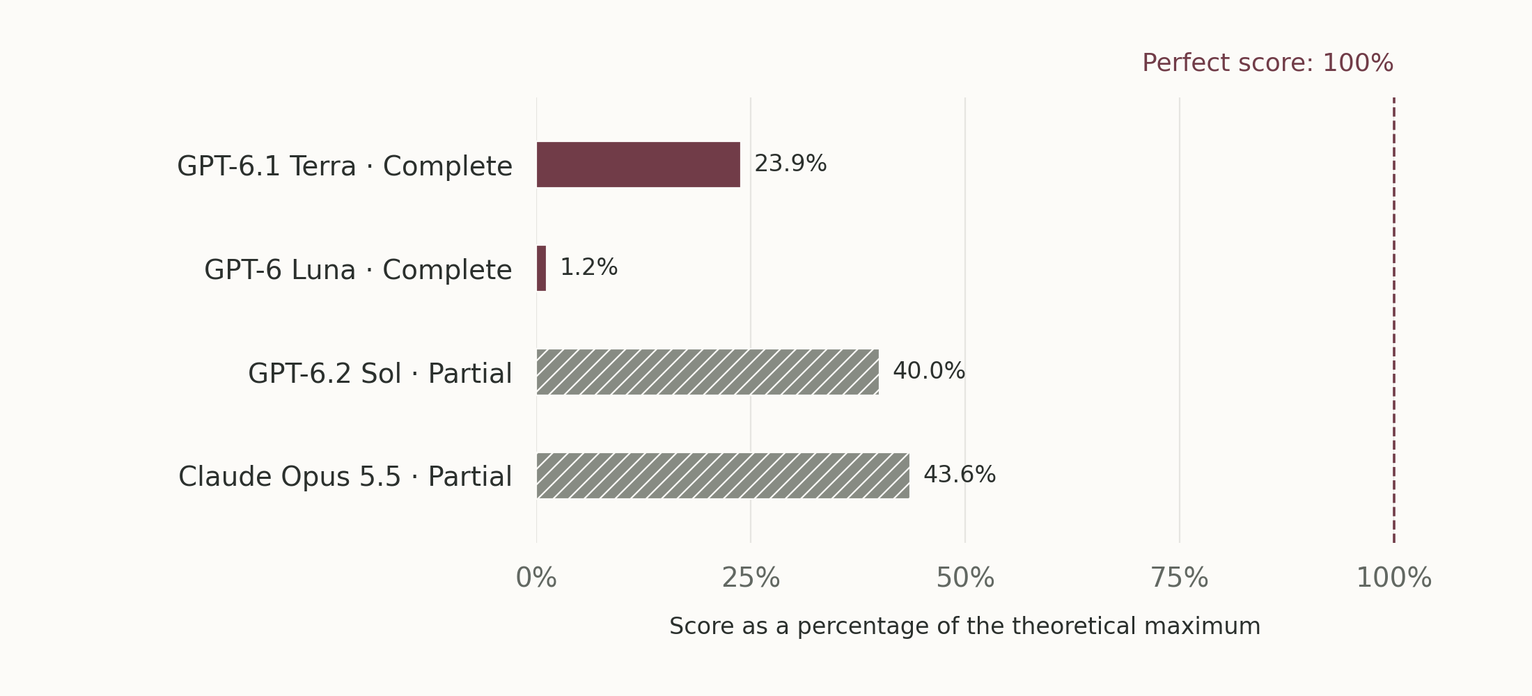
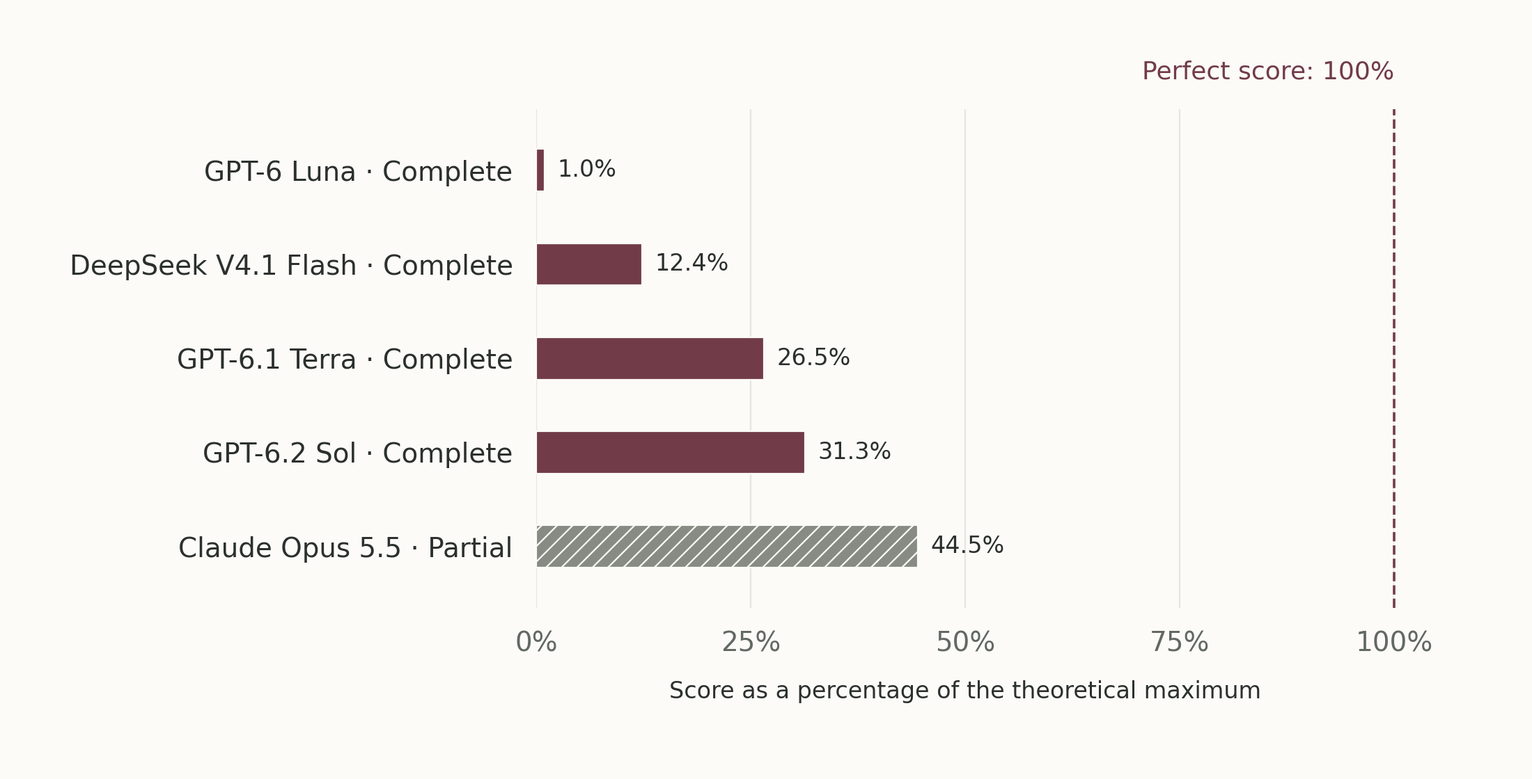
Update OpenQFT note with five models and how each one investigates
Results snapshot now covers five models on a shared evaluation set, with
DeepSeek V4.1 Flash added and the GPT-6.2 Sol experience study complete.
The diagnostic comparison shows every model, and a new section describes
when each model does its analysis relative to its experiments.

diff --git a/project-data.js b/project-data.js
@@ -333,15 +333,19 @@ window.PROJECT_DATA = {
         ],
         [
           "A snapshot across models",
-          "The initial-evaluation snapshot now includes GPT-6.1 Terra (gpt-6.1-terra), GPT-6 Luna (gpt-6-luna), GPT-6.2 Sol (gpt-6.2-sol), and Claude Opus 5.5 (claude-opus-5-5). All scores below are expressed as a percentage of the theoretical maximum: a perfect score is 100%.\n\nComplete and Partial describe study coverage, not task success. The GPT-6.1 Terra and GPT-6 Luna main studies are complete. The GPT-6.2 Sol study is partial, and Claude Opus 5.5 currently has initial-evaluation results only. The initial batch is complete for all four models; the Partial label refers to the broader study.\n\nThe table separates initial evaluation from the experience comparison. They use different evaluation subsets, so a change between these columns should not be read as an improvement over time. Partial experience results include only completed matched comparisons; unfinished evaluations are omitted, not scored as zero. These are descriptive snapshots, rather than a definitive ranking."
+          "The snapshot now covers five models: GPT-6 Luna (gpt-6-luna), DeepSeek V4.1 Flash (deepseek-flash), GPT-6.1 Terra (gpt-6.1-terra), GPT-6.2 Sol (gpt-6.2-sol) and Claude Opus 5.5 (claude-opus-5-5). All scores are expressed as a percentage of the theoretical maximum: a perfect score is 100%.\n\nThe initial evaluation is twice as large as in the earlier version of this note, and every model was evaluated on the same set, so these numbers replace the earlier ones. Complete and Partial describe study coverage, not task success. The experience study is complete for the first four models. Claude Opus 5.5 has initial-evaluation results only.\n\nThe table separates initial evaluation from the experience comparison. They use different evaluation subsets, so a change between these columns should not be read as an improvement over time. The averages also hide how much single investigations by one model differ. Claude Opus 5.5 has the highest average here, yet its lead over GPT-6.2 Sol is within that spread, and its own investigations fall into two groups: some reach much of the explanation and some reach little. These are descriptive snapshots, rather than a definitive ranking."
         ],
         [
           "Collecting evidence is only part of the work",
-          "Choosing an experiment and making sense of its outcome are different abilities. An agent can collect observations while still missing a useful explanation. It can also settle on a plausible story too early and keep gathering evidence that fits it.\n\nThe GPT-6.1 Terra study motivates a closer look at this distinction. The comparison below places GPT-6.1 Terra alongside a diagnostic reference analysis. That reference also receives additional information, so the gap does not isolate a reasoning deficit. It is a prompt to ask which parts of an investigation need help, rather than a claim that every answer was already available to the agent."
+          "Choosing an experiment and making sense of its outcome are different abilities. An agent can collect observations while still missing a useful explanation. It can also settle on a plausible story too early and keep gathering evidence that fits it.\n\nThe comparison below places each model alongside a diagnostic reference analysis that works from that model's own observations. The reference also receives additional information, so the gap does not isolate a reasoning deficit. Still, the pattern is the same for all five models: the observations a model collected would have supported much more than the model concluded from them. It is a prompt to ask which parts of an investigation need help, rather than a claim that every answer was already available to the agent."
+        ],
+        [
+          "Models investigate in different ways",
+          "The models also differ in how they work, apart from how well they score. One difference is when the thinking happens. GPT-6.2 Sol and GPT-6.1 Terra tend to run their experiments in a few large batches and do nearly all of their analysis after the last one, when nothing they work out can change what they try. Claude Opus 5.5 alternates: more than half of its analysis happens while it can still choose another experiment, and it varies the conditions of its experiments more widely.\n\nThe figure shows this as the share of analysis steps taken before the last experiment. A higher share is not a score: GPT-6 Luna and DeepSeek V4.1 Flash also analyse between experiments and score lowest, so alternating does not make an investigation succeed by itself. What I take from it is that the way an agent investigates can be measured alongside its result, and that an explanation worked out after the last experiment can no longer be tested by one."
         ],
         [
           "When experience helps—and when it gets in the way",
-          "A later investigation need not begin from an empty page. In the selected GPT-6.1 Terra comparison below, accumulated experience is associated with better performance. That is encouraging: something from an earlier investigation can be useful again.\n\nBut useful memory needs judgement. A good explanation can guide a new experiment; an untested assumption can guide it in the wrong direction. I want to understand how an agent can carry forward what it has learnt while staying willing to revise it. The figure also includes the complete GPT-6 Luna study and available partial GPT-6.2 Sol results. Claude Opus 5.5 has no completed experience comparison to show yet. These descriptive means do not imply that memory helps every investigation."
+          "A later investigation need not begin from an empty page. In the comparison below, each model meets the same problems without and with notes from its own earlier investigations. The benefit grows with what a model can discover in the first place: GPT-6 Luna, which discovers little, gains little, and GPT-6.2 Sol gains the most.\n\nWhat experience changes differs from model to model. With its notes, GPT-6.2 Sol runs different experiments: fewer of them, with the conditions varied more widely. GPT-6.1 Terra runs much the same experiments as before and changes what it concludes from them. In the cases I have so far, the notes also help with kinds of rule that the earlier investigations had not contained, which suggests that what carries over is mostly a way of working, more than a list of facts.\n\nBut useful memory needs judgement. A good explanation can guide a new experiment; an untested assumption can guide it in the wrong direction, and I see both. I want to understand how an agent can carry forward what it has learnt while staying willing to revise it. Claude Opus 5.5 has no experience comparison to show yet. These descriptive means do not imply that memory helps every investigation."
         ],
         [
           "The question I want to keep asking",
@@ -349,7 +353,7 @@ window.PROJECT_DATA = {
         ],
         [
           "A research note, while the work develops",
-          "This is an intuition-led preview of independent, unpublished research. Figures show selected descriptive means, with 100% marking the theoretical maximum for the measure in each figure. The diagnostic measure and the overall evaluation score are different measures. Study coverage is marked explicitly. Experimental mechanisms and the full paper remain private while the work develops."
+          "This is an intuition-led preview of independent, unpublished research. Figures show selected descriptive means, with 100% marking the theoretical maximum for the measure in each figure. The diagnostic measure, the process measure and the overall evaluation score are different measures, and the process measure is not a score. Study coverage is marked explicitly. Experimental mechanisms and the full paper remain private while the work develops."
         ]
       ]
     },
@@ -368,15 +372,19 @@ window.PROJECT_DATA = {
         ],
         [
           "几种模型的结果快照",
-          "初始评测快照现在包括 GPT-6.1 Terra（gpt-6.1-terra）、GPT-6 Luna（gpt-6-luna）、GPT-6.2 Sol（gpt-6.2-sol）和 Claude Opus 5.5（claude-opus-5-5）。下方分数均按理论满分换算为百分比：满分为 100%。\n\nComplete 和 Partial 表示研究的完成状态，不表示任务成功率。GPT-6.1 Terra 和 GPT-6 Luna 的主线研究已完整；GPT-6.2 Sol 的研究仍是 partial，Claude Opus 5.5 目前只有初始评测结果。四个模型的初始批次均已完成；Partial 指的是更完整的研究尚未完成。\n\n表格将初始评测与经验对比分开。两者使用不同的评测子集，因此不能将跨列差值理解为随时间提升。Partial 的经验结果仅包含已完成的匹配比较；未完成评测暂不纳入，也不记为零分。这些是描述性的结果快照，不作为最终排名。"
+          "结果快照现在包括五个模型：GPT-6 Luna（gpt-6-luna）、DeepSeek V4.1 Flash（deepseek-flash）、GPT-6.1 Terra（gpt-6.1-terra）、GPT-6.2 Sol（gpt-6.2-sol）和 Claude Opus 5.5（claude-opus-5-5）。分数均按理论满分换算为百分比：满分为 100%。\n\n初始评测的规模是这篇笔记上一版的两倍，而且所有模型都在同一组评测上完成，因此这里的数字取代之前的数字。Complete 和 Partial 表示研究的完成状态，不表示任务成功率。前四个模型的经验研究已经完整；Claude Opus 5.5 目前只有初始评测结果。\n\n表格将初始评测与经验对比分开。两者使用不同的评测子集，因此不能将跨列差值理解为随时间提升。均值还掩盖了一点：同一个模型的各次探索之间差别很大。Claude Opus 5.5 在这里的均值最高，但它对 GPT-6.2 Sol 的领先幅度并未超出这种波动；它自己的探索也分成两类，有些得到了解释的大部分，有些所得甚少。这些是描述性的结果快照，不作为最终排名。"
         ],
         [
           "收集证据，只是工作的一部分",
-          "选择实验和理解结果，是两种不同的能力。智能体可能积累了许多观测，却仍然错过一个有用的解释；也可能过早相信一个看似合理的故事，此后只收集符合它的证据。\n\nGPT-6.1 Terra 的研究让我想进一步区分这些环节。下图将 GPT-6.1 Terra 与一个诊断性的参考分析进行对照。参考分析还获得了额外信息，因此差距不能单独归因于推理能力。它促使我追问探索中的哪些环节需要帮助，而不是断言答案早已完整地呈现在智能体面前。"
+          "选择实验和理解结果，是两种不同的能力。智能体可能积累了许多观测，却仍然错过一个有用的解释；也可能过早相信一个看似合理的故事，此后只收集符合它的证据。\n\n下图把每个模型与一个诊断性的参考分析放在一起，参考分析使用的正是该模型自己收集到的观测。参考分析还获得了额外信息，因此差距不能单独归因于推理能力。不过五个模型呈现出同样的情况：模型收集到的观测，本可以支持比它实际得出的多得多的结论。它促使我追问探索中的哪些环节需要帮助，而不是断言答案早已完整地呈现在智能体面前。"
+        ],
+        [
+          "模型的探索方式各不相同",
+          "除了分数高低，模型的工作方式也不一样。一个差别在于思考发生在什么时候。GPT-6.2 Sol 和 GPT-6.1 Terra 倾向于把实验分成几大批做完，几乎所有分析都放在最后一次实验之后，这时无论想明白什么，都已经无法改变要做的实验。Claude Opus 5.5 则是交替进行：它一半以上的分析发生在还能再选一个实验的时候，实验条件也变化得更多。\n\n下图用“最后一次实验之前完成的分析步骤占比”来表示这一点。占比高并不等于分数高：GPT-6 Luna 和 DeepSeek V4.1 Flash 同样会在实验之间做分析，分数却最低，可见光靠交替并不能让探索成功。我从中看到的是：智能体的探索方式可以和结果一起被测量；而在最后一次实验之后才想出的解释，已经没有实验可以检验它了。"
         ],
         [
           "经验何时有用，又何时会妨碍探索？",
-          "后一次探索不必从空白开始。在下方选取的 GPT-6.1 Terra 对比中，积累经验时的表现更好。这是一个令人感兴趣的信号：之前的探索确实可能留下一些再次派得上用场的东西。\n\n但如何使用记忆，同样需要判断。好的解释可以指引下一次实验，未经检验的假设也可能把探索带偏。我想理解的是：智能体如何带着已有知识继续前进，同时保留修订它的意愿。图中也加入了完整的 GPT-6 Luna 研究，以及 GPT-6.2 Sol 已完成的部分结果。Claude Opus 5.5 暂无已完成的经验对比。这些描述性均值并不意味着记忆会帮助每一次探索。"
+          "后一次探索不必从空白开始。在下方的对比中，每个模型分别在没有和带有自己先前探索笔记的情况下，面对同样的问题。模型本身能发现的越多，经验带来的收益越大：GPT-6 Luna 发现得很少，收益也很小；GPT-6.2 Sol 的收益最大。\n\n经验改变了什么，也因模型而异。带着笔记的 GPT-6.2 Sol 会做不一样的实验：次数更少，条件变化更多。GPT-6.1 Terra 做的实验和之前差不多，改变的是它从实验中得出的结论。在目前已有的例子里，笔记对先前探索中没有出现过的规律类型同样有帮助，这说明延续下来的主要是一种工作方法，而不只是一份事实清单。\n\n但如何使用记忆，同样需要判断。好的解释可以指引下一次实验，未经检验的假设也可能把探索带偏，这两种情况我都看到了。我想理解的是：智能体如何带着已有知识继续前进，同时保留修订它的意愿。Claude Opus 5.5 暂无经验对比。这些描述性均值并不意味着记忆会帮助每一次探索。"
         ],
         [
           "我想继续追问的问题",
@@ -384,7 +392,7 @@ window.PROJECT_DATA = {
         ],
         [
           "写在研究进行中",
-          "这是尚未发表的独立研究的一篇直觉笔记。图中展示选取结果的描述性均值，100% 表示每张图中相应指标的理论满分。诊断指标与整体评测分数是不同指标。研究完成状态已分别标注。研究进行期间，具体实验机制与论文全文仍暂不公开。"
+          "这是尚未发表的独立研究的一篇直觉笔记。图中展示选取结果的描述性均值，100% 表示每张图中相应指标的理论满分。诊断指标、过程指标与整体评测分数是不同的指标，其中过程指标不是分数。研究完成状态已分别标注。研究进行期间，具体实验机制与论文全文仍暂不公开。"
         ]
       ]
     },
@@ -413,7 +421,7 @@ window.PROJECT_DATA = {
         ],
         [
           "Research note",
-          "The full page shares the intuition behind OpenQFT and simplified views of selected model results, including GPT-6.1 Terra."
+          "The full page shares the intuition behind OpenQFT and simplified views of selected results from five models."
         ],
         [
           "Status",
@@ -427,7 +435,7 @@ window.PROJECT_DATA = {
         ],
         [
           "研究笔记",
-          "完整页面分享 OpenQFT 背后的直觉，以及选取模型结果（含 GPT-6.1 Terra）制作的简化公开图。"
+          "完整页面分享 OpenQFT 背后的直觉，以及选取五个模型的结果制作的简化公开图。"
         ],
         [
           "状态",
@@ -440,42 +448,56 @@ window.PROJECT_DATA = {
         "after": 2,
         "src": "assets/openqft/model-discovery.png",
         "width": 2200,
-        "height": 1000,
+        "height": 1120,
         "en": {
-          "alt": "Initial evaluation: GPT-6.1 Terra 23.9%, GPT-6 Luna 1.2%, GPT-6.2 Sol 40.0%, Claude Opus 5.5 43.6%. The theoretical maximum is 100%. Sol and Opus are marked Partial for overall study coverage.",
-          "caption": "Initial-evaluation means, as a percentage of the theoretical maximum (100%). All four initial batches are complete. Complete/Partial denotes coverage of the broader study; partial studies use hatched bars. This snapshot does not establish a definitive model ranking."
+          "alt": "Initial evaluation: GPT-6 Luna 1.0%, DeepSeek V4.1 Flash 12.4%, GPT-6.1 Terra 26.5%, GPT-6.2 Sol 31.3%, Claude Opus 5.5 44.5%. The theoretical maximum is 100%. Claude Opus 5.5 is marked Partial for overall study coverage.",
+          "caption": "Initial-evaluation means, as a percentage of the theoretical maximum (100%). All five models were evaluated on the same set. Complete/Partial denotes coverage of the broader study; the partial study uses a hatched bar. This snapshot does not establish a definitive model ranking."
         },
         "zh": {
-          "alt": "初始评测：GPT-6.1 Terra 23.9%、GPT-6 Luna 1.2%、GPT-6.2 Sol 40.0%、Claude Opus 5.5 43.6%，理论满分为 100%。Sol 和 Opus 的整体研究标注为 Partial。",
-          "caption": "初始评测均值，按理论满分（100%）换算。四个初始批次均已完成。Complete/Partial 表示整体研究覆盖情况，部分研究采用斜线柱形。此快照不构成最终模型排名。"
+          "alt": "初始评测：GPT-6 Luna 1.0%、DeepSeek V4.1 Flash 12.4%、GPT-6.1 Terra 26.5%、GPT-6.2 Sol 31.3%、Claude Opus 5.5 44.5%，理论满分为 100%。Claude Opus 5.5 的整体研究标注为 Partial。",
+          "caption": "初始评测均值，按理论满分（100%）换算。五个模型在同一组评测上完成。Complete/Partial 表示整体研究覆盖情况，部分完成的研究采用斜线柱形。此快照不构成最终模型排名。"
         }
       },
       {
         "after": 3,
-        "src": "assets/openqft/terra-evidence.png",
+        "src": "assets/openqft/model-evidence.png",
         "width": 2200,
-        "height": 720,
+        "height": 1480,
         "en": {
-          "alt": "GPT-6.1 Terra: 9.2%; diagnostic reference with extra information: 54.6%. The theoretical maximum for this diagnostic measure is 100%.",
-          "caption": "GPT-6.1 Terra: selected diagnostic measure, with its theoretical maximum marked at 100%. The reference has additional information; this is not an equal-information baseline. This measure differs from the overall score in the other figures. Mechanism details remain private."
+          "alt": "Selected diagnostic measure, model against a reference analysis of the same observations with extra information: GPT-6 Luna 0.1% against 50.2%; DeepSeek V4.1 Flash 2.6% against 53.6%; GPT-6.1 Terra 8.9% against 63.2%; GPT-6.2 Sol 16.5% against 66.1%; Claude Opus 5.5 31.1% against 67.7%. The maximum is 100%.",
+          "caption": "Selected diagnostic measure for each model, with its maximum marked at 100%. The reference analyses the same observations the model collected and has additional information; this is not an equal-information baseline. This measure differs from the overall score in the other figures. Mechanism details remain private."
         },
         "zh": {
-          "alt": "GPT-6.1 Terra：9.2%；具有额外信息的诊断参照：54.6%。此诊断指标的理论满分为 100%。",
-          "caption": "GPT-6.1 Terra 的选取诊断指标，理论满分标为 100%。参照具有额外信息，并非信息条件相同的基线。此指标与其他图中的整体分数不同；具体机制暂不公开。"
+          "alt": "选取的诊断指标，模型与使用相同观测并具有额外信息的参考分析：GPT-6 Luna 0.1% 对 50.2%；DeepSeek V4.1 Flash 2.6% 对 53.6%；GPT-6.1 Terra 8.9% 对 63.2%；GPT-6.2 Sol 16.5% 对 66.1%；Claude Opus 5.5 31.1% 对 67.7%。满分为 100%。",
+          "caption": "各模型的选取诊断指标，满分标为 100%。参考分析使用模型自己收集的同一批观测，并具有额外信息，并非信息条件相同的基线。此指标与其他图中的整体分数不同；具体机制暂不公开。"
         }
       },
       {
         "after": 4,
-        "src": "assets/openqft/model-experience.png",
+        "src": "assets/openqft/model-process.png",
         "width": 2200,
-        "height": 1100,
+        "height": 1120,
         "en": {
-          "alt": "Without/with accumulated experience: GPT-6.1 Terra 30.4%/37.9%, GPT-6 Luna 0.5%/1.4%, GPT-6.2 Sol 39.5%/46.2%. Perfect score is 100%. Sol is Partial. Opus has no available experience comparison.",
-          "caption": "Experience comparison: descriptive means from completed matched comparisons, with 100% marking the theoretical maximum. GPT-6.1 Terra and GPT-6 Luna are complete; GPT-6.2 Sol is partial and covers a different subset. No Claude Opus 5.5 experience result is available. Missing evaluations are not zeros. These means do not establish a universal memory benefit."
+          "alt": "Share of analysis steps taken before the last experiment: GPT-6 Luna 38.3%, DeepSeek V4.1 Flash 51.8%, GPT-6.1 Terra 16.8%, GPT-6.2 Sol 9.4%, Claude Opus 5.5 59.0%.",
+          "caption": "When the thinking happens: of the steps a model spends on analysis, the share taken before its last experiment, averaged over investigations that start with no earlier experience. This describes how a model works; it is not a score."
         },
         "zh": {
-          "alt": "未积累/积累经验：GPT-6.1 Terra 30.4%/37.9%、GPT-6 Luna 0.5%/1.4%、GPT-6.2 Sol 39.5%/46.2%。满分为 100%；Sol 为 Partial，Opus 暂无经验对比。",
-          "caption": "经验对比：已完成匹配比较的描述性均值，100% 为理论满分。GPT-6.1 Terra 与 GPT-6 Luna 已完整；GPT-6.2 Sol 为部分结果，覆盖不同子集。Claude Opus 5.5 暂无经验对比结果。缺失评测不记为零；这些均值不代表记忆具有普遍收益。"
+          "alt": "最后一次实验之前完成的分析步骤占比：GPT-6 Luna 38.3%、DeepSeek V4.1 Flash 51.8%、GPT-6.1 Terra 16.8%、GPT-6.2 Sol 9.4%、Claude Opus 5.5 59.0%。",
+          "caption": "思考发生在什么时候：在模型用于分析的步骤中，发生在最后一次实验之前的占比，对没有先前经验的探索取平均。它描述的是模型的工作方式，不是分数。"
+        }
+      },
+      {
+        "after": 5,
+        "src": "assets/openqft/model-experience.png",
+        "width": 2200,
+        "height": 1280,
+        "en": {
+          "alt": "Without/with accumulated experience: GPT-6 Luna 0.5%/1.4%, DeepSeek V4.1 Flash 6.5%/10.0%, GPT-6.1 Terra 30.4%/37.9%, GPT-6.2 Sol 35.5%/51.6%. Perfect score is 100%. Claude Opus 5.5 has no experience comparison.",
+          "caption": "Experience comparison: descriptive means from matched comparisons on the same problems, with 100% marking the theoretical maximum. All four studies shown are complete. No Claude Opus 5.5 experience result is available. These means do not establish a universal memory benefit."
+        },
+        "zh": {
+          "alt": "未积累/积累经验：GPT-6 Luna 0.5%/1.4%、DeepSeek V4.1 Flash 6.5%/10.0%、GPT-6.1 Terra 30.4%/37.9%、GPT-6.2 Sol 35.5%/51.6%。满分为 100%；Claude Opus 5.5 暂无经验对比。",
+          "caption": "经验对比：同一批问题上匹配比较的描述性均值，100% 为理论满分。图中四项研究均已完整。Claude Opus 5.5 暂无经验对比结果。这些均值不代表记忆具有普遍收益。"
         }
       }
     ],
@@ -509,33 +531,43 @@ window.PROJECT_DATA = {
       },
       "rows": [
         {
-          "model": "GPT-6.1 Terra",
-          "identifier": "gpt-6.1-terra",
-          "status": "Complete",
-          "scores": [
-            23.9,
-            30.4,
-            37.9
-          ]
-        },
-        {
           "model": "GPT-6 Luna",
           "identifier": "gpt-6-luna",
           "status": "Complete",
           "scores": [
-            1.2,
+            1.0,
             0.5,
             1.4
           ]
         },
         {
+          "model": "DeepSeek V4.1 Flash",
+          "identifier": "deepseek-flash",
+          "status": "Complete",
+          "scores": [
+            12.4,
+            6.5,
+            10.0
+          ]
+        },
+        {
+          "model": "GPT-6.1 Terra",
+          "identifier": "gpt-6.1-terra",
+          "status": "Complete",
+          "scores": [
+            26.5,
+            30.4,
+            37.9
+          ]
+        },
+        {
           "model": "GPT-6.2 Sol",
           "identifier": "gpt-6.2-sol",
-          "status": "Partial",
+          "status": "Complete",
           "scores": [
-            40.0,
-            39.5,
-            46.2
+            31.3,
+            35.5,
+            51.6
           ]
         },
         {
@@ -543,7 +575,7 @@ window.PROJECT_DATA = {
           "identifier": "claude-opus-5-5",
           "status": "Partial",
           "scores": [
-            43.6,
+            44.5,
             null,
             null
           ]

diff --git a/projects/openqft/index.html b/projects/openqft/index.html
@@ -1,4 +1,4 @@
 <!doctype html>
 <html lang="en"><head><meta charset="utf-8"><meta name="viewport" content="width=device-width,initial-scale=1"><meta name="description" content="Some thoughts on scientific discovery, useful experience, and what it means for an agent to keep learning."><title>OpenQFT — Shuhan Wang</title><link rel="canonical" href="https://shuhan-wang1.github.io/projects/openqft/"><meta property="og:title" content="OpenQFT — Shuhan Wang"><meta property="og:description" content="Some thoughts on scientific discovery, useful experience, and what it means for an agent to keep learning."><link rel="icon" href="../../assets/favicon.svg" type="image/svg+xml"><link rel="stylesheet" href="../../styles.css"><link rel="stylesheet" href="../../project.css"><script src="../../project-data.js" defer></script><script src="../../project.js" defer></script></head>
 <body data-project-id="qft" class="research-blog"><a class="skip-link" href="#project-main" id="skip">Skip to content</a><header class="site-header"><div class="header-inner"><a class="wordmark" href="../../" aria-label="Shuhan Wang, home">sw<span class="wordmark-dot">.</span></a><a class="text-link" id="back-home" href="../../#research">All projects</a><button id="project-language" class="language-button" aria-label="Switch to Chinese">中文</button></div></header>
-<main id="project-main" class="project-document container"><header class="project-hero"><p class="eyebrow" id="page-kicker">OPENQFT / RESEARCH JOURNAL</p><h1 id="page-title">Learning to discover. Learning from discovery.</h1><p id="page-summary">Some thoughts on scientific discovery, useful experience, and what it means for an agent to keep learning.</p><div class="project-resources"></div></header><div class="project-layout"><aside><nav class="project-toc" aria-label="On this page"><span id="toc-label">On this page</span><a href="#section-0">What should an agent learn from discovery?</a><a href="#section-1">An intuition from the history of science</a><a href="#section-2">A snapshot across models</a><a href="#section-3">Collecting evidence is only part of the work</a><a href="#section-4">When experience helps—and when it gets in the way</a><a href="#section-5">The question I want to keep asking</a><a href="#section-6">A research note, while the work develops</a></nav></aside><article class="project-article"><div id="project-sections"><section id="section-0" class="project-section"><h2>What should an agent learn from discovery?</h2><div class="section-prose"><p>I keep coming back to two questions. Can an agent work out something unfamiliar by choosing its own experiments? And when it encounters a new problem, does the earlier investigation make it a better learner?</p><p>OpenQFT grew out of wanting to study these questions together. A successful investigation is interesting in its own right. I am even more interested in what survives it: a useful idea, a better question, or a habit of checking an explanation before trusting it.</p></div></section><section id="section-1" class="project-section"><h2>An intuition from the history of science</h2><div class="section-prose"><p>One inspiration is the history of particle physics. Observations arrived before a complete explanation. Researchers had to look for regularities, ask what those regularities implied, and decide which observation might change the picture. An explanation earned its value by helping them anticipate something they had not yet seen.</p><p>What interests me is this movement between evidence and explanation. Each discovery changes the questions that become worth asking. Experience can do more than supply another answer; it can change how the next investigation begins.</p></div></section><section id="section-2" class="project-section"><h2>A snapshot across models</h2><div class="section-prose"><p>The initial-evaluation snapshot now includes GPT-6.1 Terra (gpt-6.1-terra), GPT-6 Luna (gpt-6-luna), GPT-6.2 Sol (gpt-6.2-sol), and Claude Opus 5.5 (claude-opus-5-5). All scores below are expressed as a percentage of the theoretical maximum: a perfect score is 100%.</p><p>Complete and Partial describe study coverage, not task success. The GPT-6.1 Terra and GPT-6 Luna main studies are complete. The GPT-6.2 Sol study is partial, and Claude Opus 5.5 currently has initial-evaluation results only. The initial batch is complete for all four models; the Partial label refers to the broader study.</p><p>The table separates initial evaluation from the experience comparison. They use different evaluation subsets, so a change between these columns should not be read as an improvement over time. Partial experience results include only completed matched comparisons; unfinished evaluations are omitted, not scored as zero. These are descriptive snapshots, rather than a definitive ranking.</p></div></section><div class="results-table-wrap" tabindex="0" role="region" aria-label="Model results"><table class="model-results"><caption>Results snapshot · theoretical maximum = 100%</caption><thead><tr><th scope="col">Model</th><th scope="col">Study coverage</th><th scope="col">Initial evaluation</th><th scope="col">Without experience</th><th scope="col">With experience</th></tr></thead><tbody><tr><th scope="row">GPT-6.1 Terra<code>gpt-6.1-terra</code></th><td data-study-status="complete">Complete</td><td>23.9%</td><td>30.4%</td><td>37.9%</td></tr><tr><th scope="row">GPT-6 Luna<code>gpt-6-luna</code></th><td data-study-status="complete">Complete</td><td>1.2%</td><td>0.5%</td><td>1.4%</td></tr><tr><th scope="row">GPT-6.2 Sol<code>gpt-6.2-sol</code></th><td data-study-status="partial">Partial</td><td>40.0%</td><td>39.5%</td><td>46.2%</td></tr><tr><th scope="row">Claude Opus 5.5<code>claude-opus-5-5</code></th><td data-study-status="partial">Partial</td><td>43.6%</td><td data-score-missing>Not available</td><td data-score-missing>Not available</td></tr></tbody></table></div><figure class="blog-figure" data-blog-figure="0"><a class="figure-zoom" href="../../assets/openqft/model-discovery.png" target="_blank" rel="noopener noreferrer"><img src="../../assets/openqft/model-discovery.png" alt="Initial evaluation: GPT-6.1 Terra 23.9%, GPT-6 Luna 1.2%, GPT-6.2 Sol 40.0%, Claude Opus 5.5 43.6%. The theoretical maximum is 100%. Sol and Opus are marked Partial for overall study coverage." width="2200" height="1000" loading="lazy"></a><figcaption>Initial-evaluation means, as a percentage of the theoretical maximum (100%). All four initial batches are complete. Complete/Partial denotes coverage of the broader study; partial studies use hatched bars. This snapshot does not establish a definitive model ranking.</figcaption></figure><section id="section-3" class="project-section"><h2>Collecting evidence is only part of the work</h2><div class="section-prose"><p>Choosing an experiment and making sense of its outcome are different abilities. An agent can collect observations while still missing a useful explanation. It can also settle on a plausible story too early and keep gathering evidence that fits it.</p><p>The GPT-6.1 Terra study motivates a closer look at this distinction. The comparison below places GPT-6.1 Terra alongside a diagnostic reference analysis. That reference also receives additional information, so the gap does not isolate a reasoning deficit. It is a prompt to ask which parts of an investigation need help, rather than a claim that every answer was already available to the agent.</p></div></section><figure class="blog-figure" data-blog-figure="1"><a class="figure-zoom" href="../../assets/openqft/terra-evidence.png" target="_blank" rel="noopener noreferrer"><img src="../../assets/openqft/terra-evidence.png" alt="GPT-6.1 Terra: 9.2%; diagnostic reference with extra information: 54.6%. The theoretical maximum for this diagnostic measure is 100%." width="2200" height="720" loading="lazy"></a><figcaption>GPT-6.1 Terra: selected diagnostic measure, with its theoretical maximum marked at 100%. The reference has additional information; this is not an equal-information baseline. This measure differs from the overall score in the other figures. Mechanism details remain private.</figcaption></figure><section id="section-4" class="project-section"><h2>When experience helps—and when it gets in the way</h2><div class="section-prose"><p>A later investigation need not begin from an empty page. In the selected GPT-6.1 Terra comparison below, accumulated experience is associated with better performance. That is encouraging: something from an earlier investigation can be useful again.</p><p>But useful memory needs judgement. A good explanation can guide a new experiment; an untested assumption can guide it in the wrong direction. I want to understand how an agent can carry forward what it has learnt while staying willing to revise it. The figure also includes the complete GPT-6 Luna study and available partial GPT-6.2 Sol results. Claude Opus 5.5 has no completed experience comparison to show yet. These descriptive means do not imply that memory helps every investigation.</p></div></section><figure class="blog-figure" data-blog-figure="2"><a class="figure-zoom" href="../../assets/openqft/model-experience.png" target="_blank" rel="noopener noreferrer"><img src="../../assets/openqft/model-experience.png" alt="Without/with accumulated experience: GPT-6.1 Terra 30.4%/37.9%, GPT-6 Luna 0.5%/1.4%, GPT-6.2 Sol 39.5%/46.2%. Perfect score is 100%. Sol is Partial. Opus has no available experience comparison." width="2200" height="1100" loading="lazy"></a><figcaption>Experience comparison: descriptive means from completed matched comparisons, with 100% marking the theoretical maximum. GPT-6.1 Terra and GPT-6 Luna are complete; GPT-6.2 Sol is partial and covers a different subset. No Claude Opus 5.5 experience result is available. Missing evaluations are not zeros. These means do not establish a universal memory benefit.</figcaption></figure><section id="section-5" class="project-section"><h2>The question I want to keep asking</h2><div class="section-prose"><p>For me, the exciting possibility is an agent whose experience improves the way it investigates. It notices when an explanation stops working, asks a more revealing question, and brings a useful idea to an unfamiliar problem.</p><p>That connects scientific discovery to continual learning: progress in one investigation becomes part of how the next one is approached. OpenQFT is where I am exploring that connection.</p></div></section><section id="section-6" class="project-section"><h2>A research note, while the work develops</h2><div class="section-prose"><p>This is an intuition-led preview of independent, unpublished research. Figures show selected descriptive means, with 100% marking the theoretical maximum for the measure in each figure. The diagnostic measure and the overall evaluation score are different measures. Study coverage is marked explicitly. Experimental mechanisms and the full paper remain private while the work develops.</p></div></section></div><p class="project-updated" id="updated">Updated November 2026</p></article></div><nav class="related-projects" aria-label="Other projects"><h2 id="related-title">Explore other projects</h2><a href="../diagnosing-world-models/" data-related="wm">Diagnosing World Models</a><a href="../climb/" data-related="climb">CLIMB</a><a href="../temporal-routing/" data-related="temporal">Temporal Routing</a><a href="../swe-router/" data-related="swe">SWE-Router</a><a href="../ropeband/" data-related="rope">RopeBand</a><a href="../rentcompass/" data-related="rent">RentCompass</a></nav></main><footer class="site-footer container"><a href="../../">Shuhan Wang / 王书涵</a><a href="mailto:jackwsh@outlook.com">jackwsh@outlook.com</a></footer></body></html>
+<main id="project-main" class="project-document container"><header class="project-hero"><p class="eyebrow" id="page-kicker">OPENQFT / RESEARCH JOURNAL</p><h1 id="page-title">Learning to discover. Learning from discovery.</h1><p id="page-summary">Some thoughts on scientific discovery, useful experience, and what it means for an agent to keep learning.</p><div class="project-resources"></div></header><div class="project-layout"><aside><nav class="project-toc" aria-label="On this page"><span id="toc-label">On this page</span><a href="#section-0">What should an agent learn from discovery?</a><a href="#section-1">An intuition from the history of science</a><a href="#section-2">A snapshot across models</a><a href="#section-3">Collecting evidence is only part of the work</a><a href="#section-4">Models investigate in different ways</a><a href="#section-5">When experience helps—and when it gets in the way</a><a href="#section-6">The question I want to keep asking</a><a href="#section-7">A research note, while the work develops</a></nav></aside><article class="project-article"><div id="project-sections"><section id="section-0" class="project-section"><h2>What should an agent learn from discovery?</h2><div class="section-prose"><p>I keep coming back to two questions. Can an agent work out something unfamiliar by choosing its own experiments? And when it encounters a new problem, does the earlier investigation make it a better learner?</p><p>OpenQFT grew out of wanting to study these questions together. A successful investigation is interesting in its own right. I am even more interested in what survives it: a useful idea, a better question, or a habit of checking an explanation before trusting it.</p></div></section><section id="section-1" class="project-section"><h2>An intuition from the history of science</h2><div class="section-prose"><p>One inspiration is the history of particle physics. Observations arrived before a complete explanation. Researchers had to look for regularities, ask what those regularities implied, and decide which observation might change the picture. An explanation earned its value by helping them anticipate something they had not yet seen.</p><p>What interests me is this movement between evidence and explanation. Each discovery changes the questions that become worth asking. Experience can do more than supply another answer; it can change how the next investigation begins.</p></div></section><section id="section-2" class="project-section"><h2>A snapshot across models</h2><div class="section-prose"><p>The snapshot now covers five models: GPT-6 Luna (gpt-6-luna), DeepSeek V4.1 Flash (deepseek-flash), GPT-6.1 Terra (gpt-6.1-terra), GPT-6.2 Sol (gpt-6.2-sol) and Claude Opus 5.5 (claude-opus-5-5). All scores are expressed as a percentage of the theoretical maximum: a perfect score is 100%.</p><p>The initial evaluation is twice as large as in the earlier version of this note, and every model was evaluated on the same set, so these numbers replace the earlier ones. Complete and Partial describe study coverage, not task success. The experience study is complete for the first four models. Claude Opus 5.5 has initial-evaluation results only.</p><p>The table separates initial evaluation from the experience comparison. They use different evaluation subsets, so a change between these columns should not be read as an improvement over time. The averages also hide how much single investigations by one model differ. Claude Opus 5.5 has the highest average here, yet its lead over GPT-6.2 Sol is within that spread, and its own investigations fall into two groups: some reach much of the explanation and some reach little. These are descriptive snapshots, rather than a definitive ranking.</p></div></section><div class="results-table-wrap" tabindex="0" role="region" aria-label="Model results"><table class="model-results"><caption>Results snapshot · theoretical maximum = 100%</caption><thead><tr><th scope="col">Model</th><th scope="col">Study coverage</th><th scope="col">Initial evaluation</th><th scope="col">Without experience</th><th scope="col">With experience</th></tr></thead><tbody><tr><th scope="row">GPT-6 Luna<code>gpt-6-luna</code></th><td data-study-status="complete">Complete</td><td>1.0%</td><td>0.5%</td><td>1.4%</td></tr><tr><th scope="row">DeepSeek V4.1 Flash<code>deepseek-flash</code></th><td data-study-status="complete">Complete</td><td>12.4%</td><td>6.5%</td><td>10.0%</td></tr><tr><th scope="row">GPT-6.1 Terra<code>gpt-6.1-terra</code></th><td data-study-status="complete">Complete</td><td>26.5%</td><td>30.4%</td><td>37.9%</td></tr><tr><th scope="row">GPT-6.2 Sol<code>gpt-6.2-sol</code></th><td data-study-status="complete">Complete</td><td>31.3%</td><td>35.5%</td><td>51.6%</td></tr><tr><th scope="row">Claude Opus 5.5<code>claude-opus-5-5</code></th><td data-study-status="partial">Partial</td><td>44.5%</td><td data-score-missing>Not available</td><td data-score-missing>Not available</td></tr></tbody></table></div><figure class="blog-figure" data-blog-figure="0"><a class="figure-zoom" href="../../assets/openqft/model-discovery.png" target="_blank" rel="noopener noreferrer"><img src="../../assets/openqft/model-discovery.png" alt="Initial evaluation: GPT-6 Luna 1.0%, DeepSeek V4.1 Flash 12.4%, GPT-6.1 Terra 26.5%, GPT-6.2 Sol 31.3%, Claude Opus 5.5 44.5%. The theoretical maximum is 100%. Claude Opus 5.5 is marked Partial for overall study coverage." width="2200" height="1120" loading="lazy"></a><figcaption>Initial-evaluation means, as a percentage of the theoretical maximum (100%). All five models were evaluated on the same set. Complete/Partial denotes coverage of the broader study; the partial study uses a hatched bar. This snapshot does not establish a definitive model ranking.</figcaption></figure><section id="section-3" class="project-section"><h2>Collecting evidence is only part of the work</h2><div class="section-prose"><p>Choosing an experiment and making sense of its outcome are different abilities. An agent can collect observations while still missing a useful explanation. It can also settle on a plausible story too early and keep gathering evidence that fits it.</p><p>The comparison below places each model alongside a diagnostic reference analysis that works from that model&#x27;s own observations. The reference also receives additional information, so the gap does not isolate a reasoning deficit. Still, the pattern is the same for all five models: the observations a model collected would have supported much more than the model concluded from them. It is a prompt to ask which parts of an investigation need help, rather than a claim that every answer was already available to the agent.</p></div></section><figure class="blog-figure" data-blog-figure="1"><a class="figure-zoom" href="../../assets/openqft/model-evidence.png" target="_blank" rel="noopener noreferrer"><img src="../../assets/openqft/model-evidence.png" alt="Selected diagnostic measure, model against a reference analysis of the same observations with extra information: GPT-6 Luna 0.1% against 50.2%; DeepSeek V4.1 Flash 2.6% against 53.6%; GPT-6.1 Terra 8.9% against 63.2%; GPT-6.2 Sol 16.5% against 66.1%; Claude Opus 5.5 31.1% against 67.7%. The maximum is 100%." width="2200" height="1480" loading="lazy"></a><figcaption>Selected diagnostic measure for each model, with its maximum marked at 100%. The reference analyses the same observations the model collected and has additional information; this is not an equal-information baseline. This measure differs from the overall score in the other figures. Mechanism details remain private.</figcaption></figure><section id="section-4" class="project-section"><h2>Models investigate in different ways</h2><div class="section-prose"><p>The models also differ in how they work, apart from how well they score. One difference is when the thinking happens. GPT-6.2 Sol and GPT-6.1 Terra tend to run their experiments in a few large batches and do nearly all of their analysis after the last one, when nothing they work out can change what they try. Claude Opus 5.5 alternates: more than half of its analysis happens while it can still choose another experiment, and it varies the conditions of its experiments more widely.</p><p>The figure shows this as the share of analysis steps taken before the last experiment. A higher share is not a score: GPT-6 Luna and DeepSeek V4.1 Flash also analyse between experiments and score lowest, so alternating does not make an investigation succeed by itself. What I take from it is that the way an agent investigates can be measured alongside its result, and that an explanation worked out after the last experiment can no longer be tested by one.</p></div></section><figure class="blog-figure" data-blog-figure="2"><a class="figure-zoom" href="../../assets/openqft/model-process.png" target="_blank" rel="noopener noreferrer"><img src="../../assets/openqft/model-process.png" alt="Share of analysis steps taken before the last experiment: GPT-6 Luna 38.3%, DeepSeek V4.1 Flash 51.8%, GPT-6.1 Terra 16.8%, GPT-6.2 Sol 9.4%, Claude Opus 5.5 59.0%." width="2200" height="1120" loading="lazy"></a><figcaption>When the thinking happens: of the steps a model spends on analysis, the share taken before its last experiment, averaged over investigations that start with no earlier experience. This describes how a model works; it is not a score.</figcaption></figure><section id="section-5" class="project-section"><h2>When experience helps—and when it gets in the way</h2><div class="section-prose"><p>A later investigation need not begin from an empty page. In the comparison below, each model meets the same problems without and with notes from its own earlier investigations. The benefit grows with what a model can discover in the first place: GPT-6 Luna, which discovers little, gains little, and GPT-6.2 Sol gains the most.</p><p>What experience changes differs from model to model. With its notes, GPT-6.2 Sol runs different experiments: fewer of them, with the conditions varied more widely. GPT-6.1 Terra runs much the same experiments as before and changes what it concludes from them. In the cases I have so far, the notes also help with kinds of rule that the earlier investigations had not contained, which suggests that what carries over is mostly a way of working, more than a list of facts.</p><p>But useful memory needs judgement. A good explanation can guide a new experiment; an untested assumption can guide it in the wrong direction, and I see both. I want to understand how an agent can carry forward what it has learnt while staying willing to revise it. Claude Opus 5.5 has no experience comparison to show yet. These descriptive means do not imply that memory helps every investigation.</p></div></section><figure class="blog-figure" data-blog-figure="3"><a class="figure-zoom" href="../../assets/openqft/model-experience.png" target="_blank" rel="noopener noreferrer"><img src="../../assets/openqft/model-experience.png" alt="Without/with accumulated experience: GPT-6 Luna 0.5%/1.4%, DeepSeek V4.1 Flash 6.5%/10.0%, GPT-6.1 Terra 30.4%/37.9%, GPT-6.2 Sol 35.5%/51.6%. Perfect score is 100%. Claude Opus 5.5 has no experience comparison." width="2200" height="1280" loading="lazy"></a><figcaption>Experience comparison: descriptive means from matched comparisons on the same problems, with 100% marking the theoretical maximum. All four studies shown are complete. No Claude Opus 5.5 experience result is available. These means do not establish a universal memory benefit.</figcaption></figure><section id="section-6" class="project-section"><h2>The question I want to keep asking</h2><div class="section-prose"><p>For me, the exciting possibility is an agent whose experience improves the way it investigates. It notices when an explanation stops working, asks a more revealing question, and brings a useful idea to an unfamiliar problem.</p><p>That connects scientific discovery to continual learning: progress in one investigation becomes part of how the next one is approached. OpenQFT is where I am exploring that connection.</p></div></section><section id="section-7" class="project-section"><h2>A research note, while the work develops</h2><div class="section-prose"><p>This is an intuition-led preview of independent, unpublished research. Figures show selected descriptive means, with 100% marking the theoretical maximum for the measure in each figure. The diagnostic measure, the process measure and the overall evaluation score are different measures, and the process measure is not a score. Study coverage is marked explicitly. Experimental mechanisms and the full paper remain private while the work develops.</p></div></section></div><p class="project-updated" id="updated">Updated November 2026</p></article></div><nav class="related-projects" aria-label="Other projects"><h2 id="related-title">Explore other projects</h2><a href="../diagnosing-world-models/" data-related="wm">Diagnosing World Models</a><a href="../climb/" data-related="climb">CLIMB</a><a href="../temporal-routing/" data-related="temporal">Temporal Routing</a><a href="../swe-router/" data-related="swe">SWE-Router</a><a href="../ropeband/" data-related="rope">RopeBand</a><a href="../rentcompass/" data-related="rent">RentCompass</a></nav></main><footer class="site-footer container"><a href="../../">Shuhan Wang / 王书涵</a><a href="mailto:jackwsh@outlook.com">jackwsh@outlook.com</a></footer></body></html>
